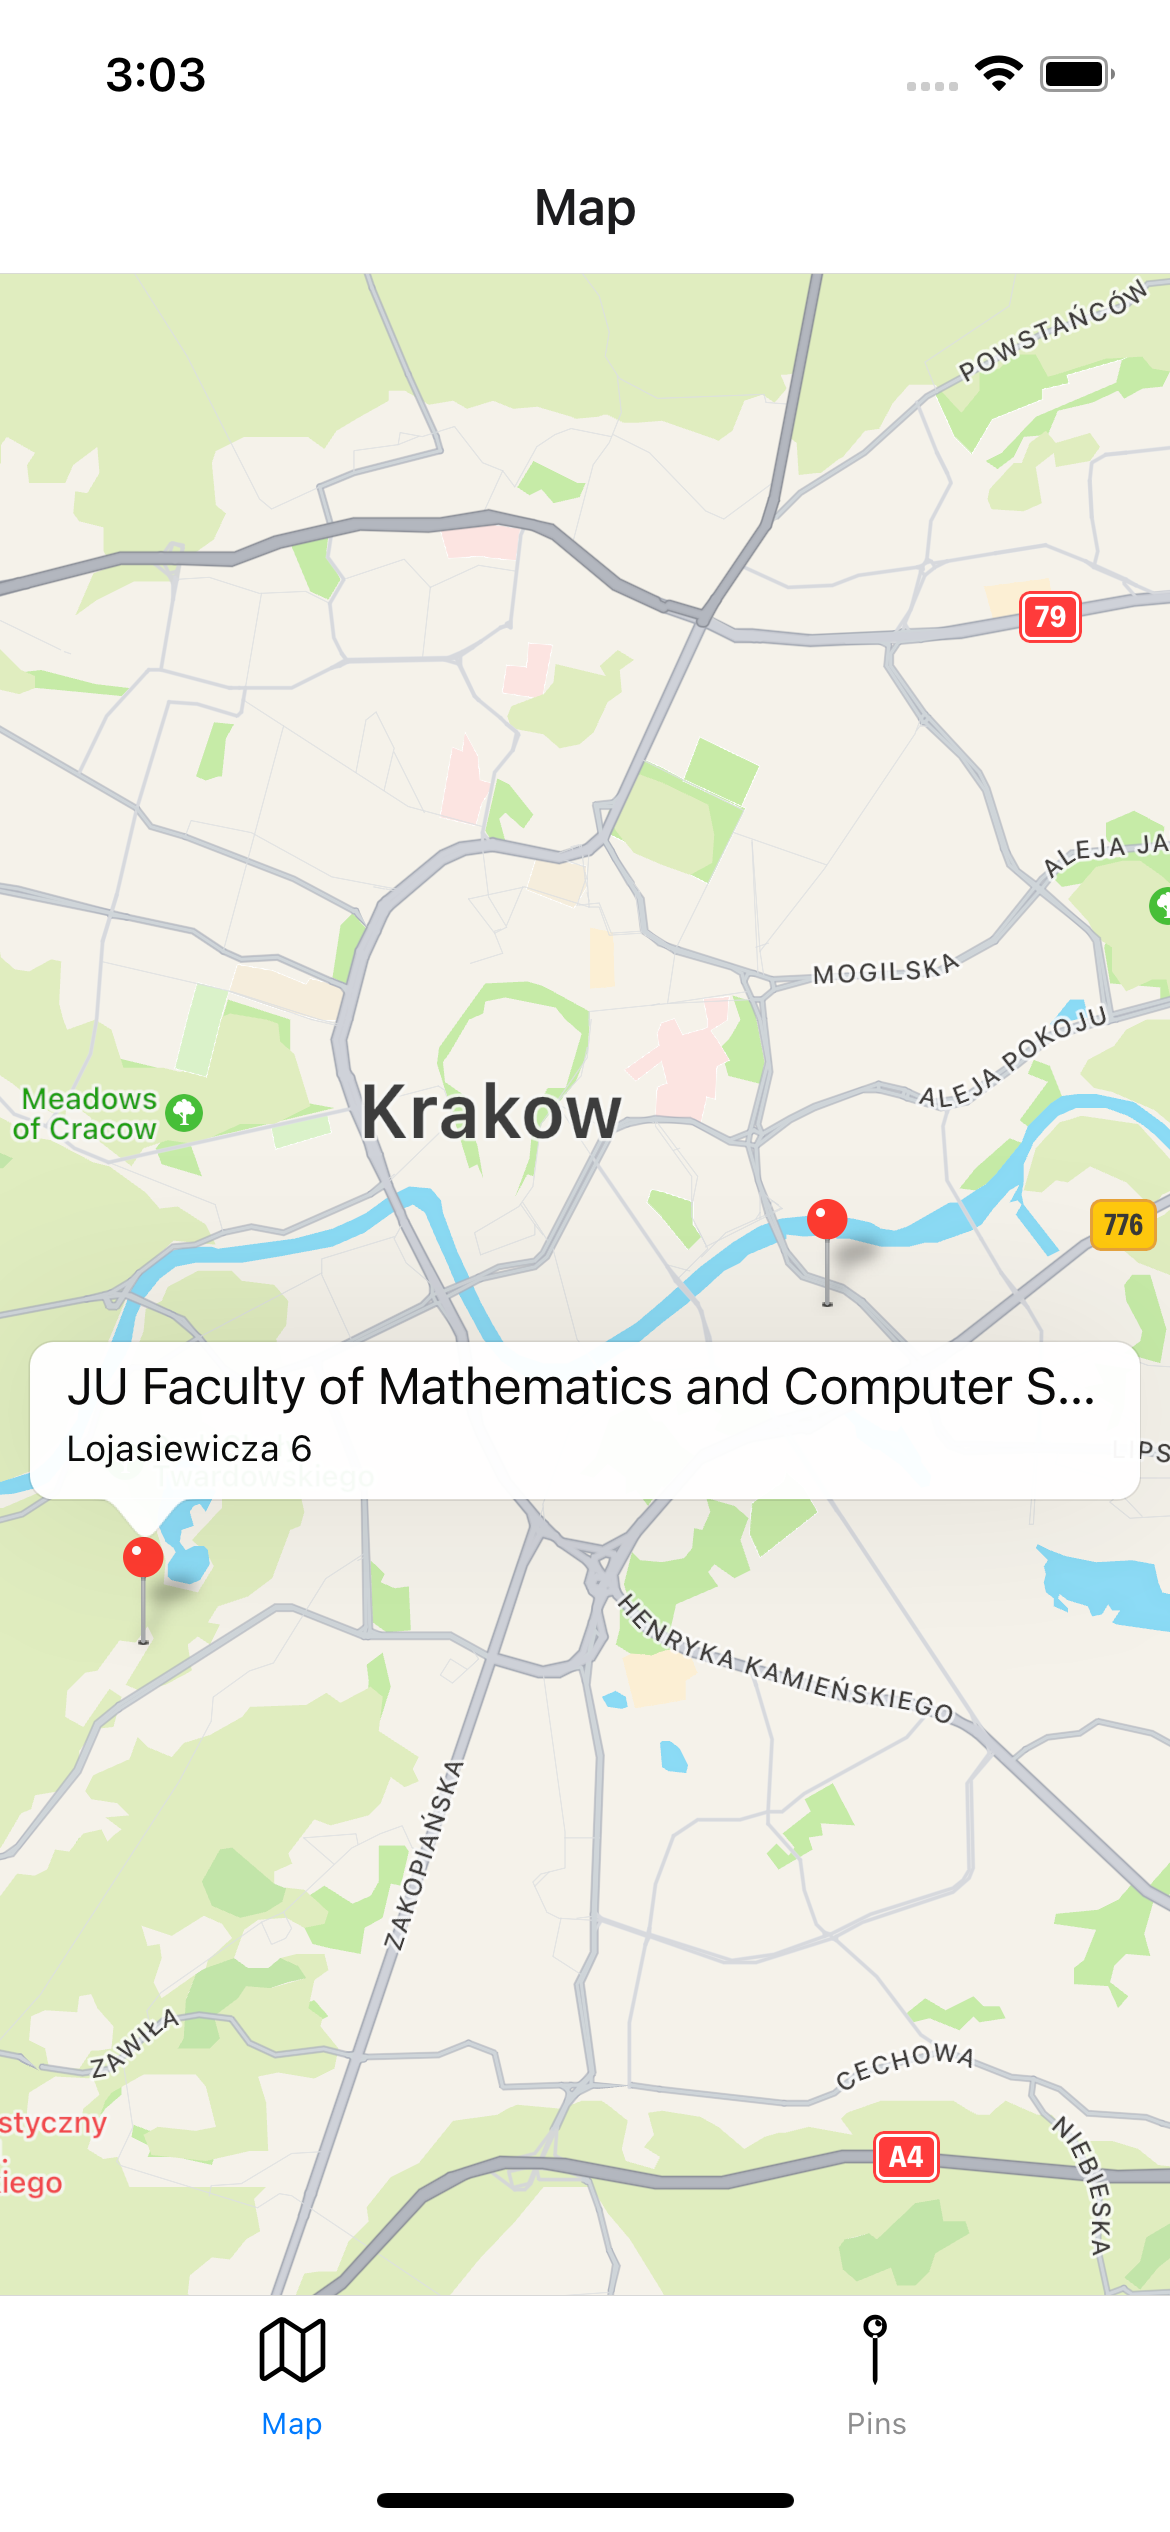
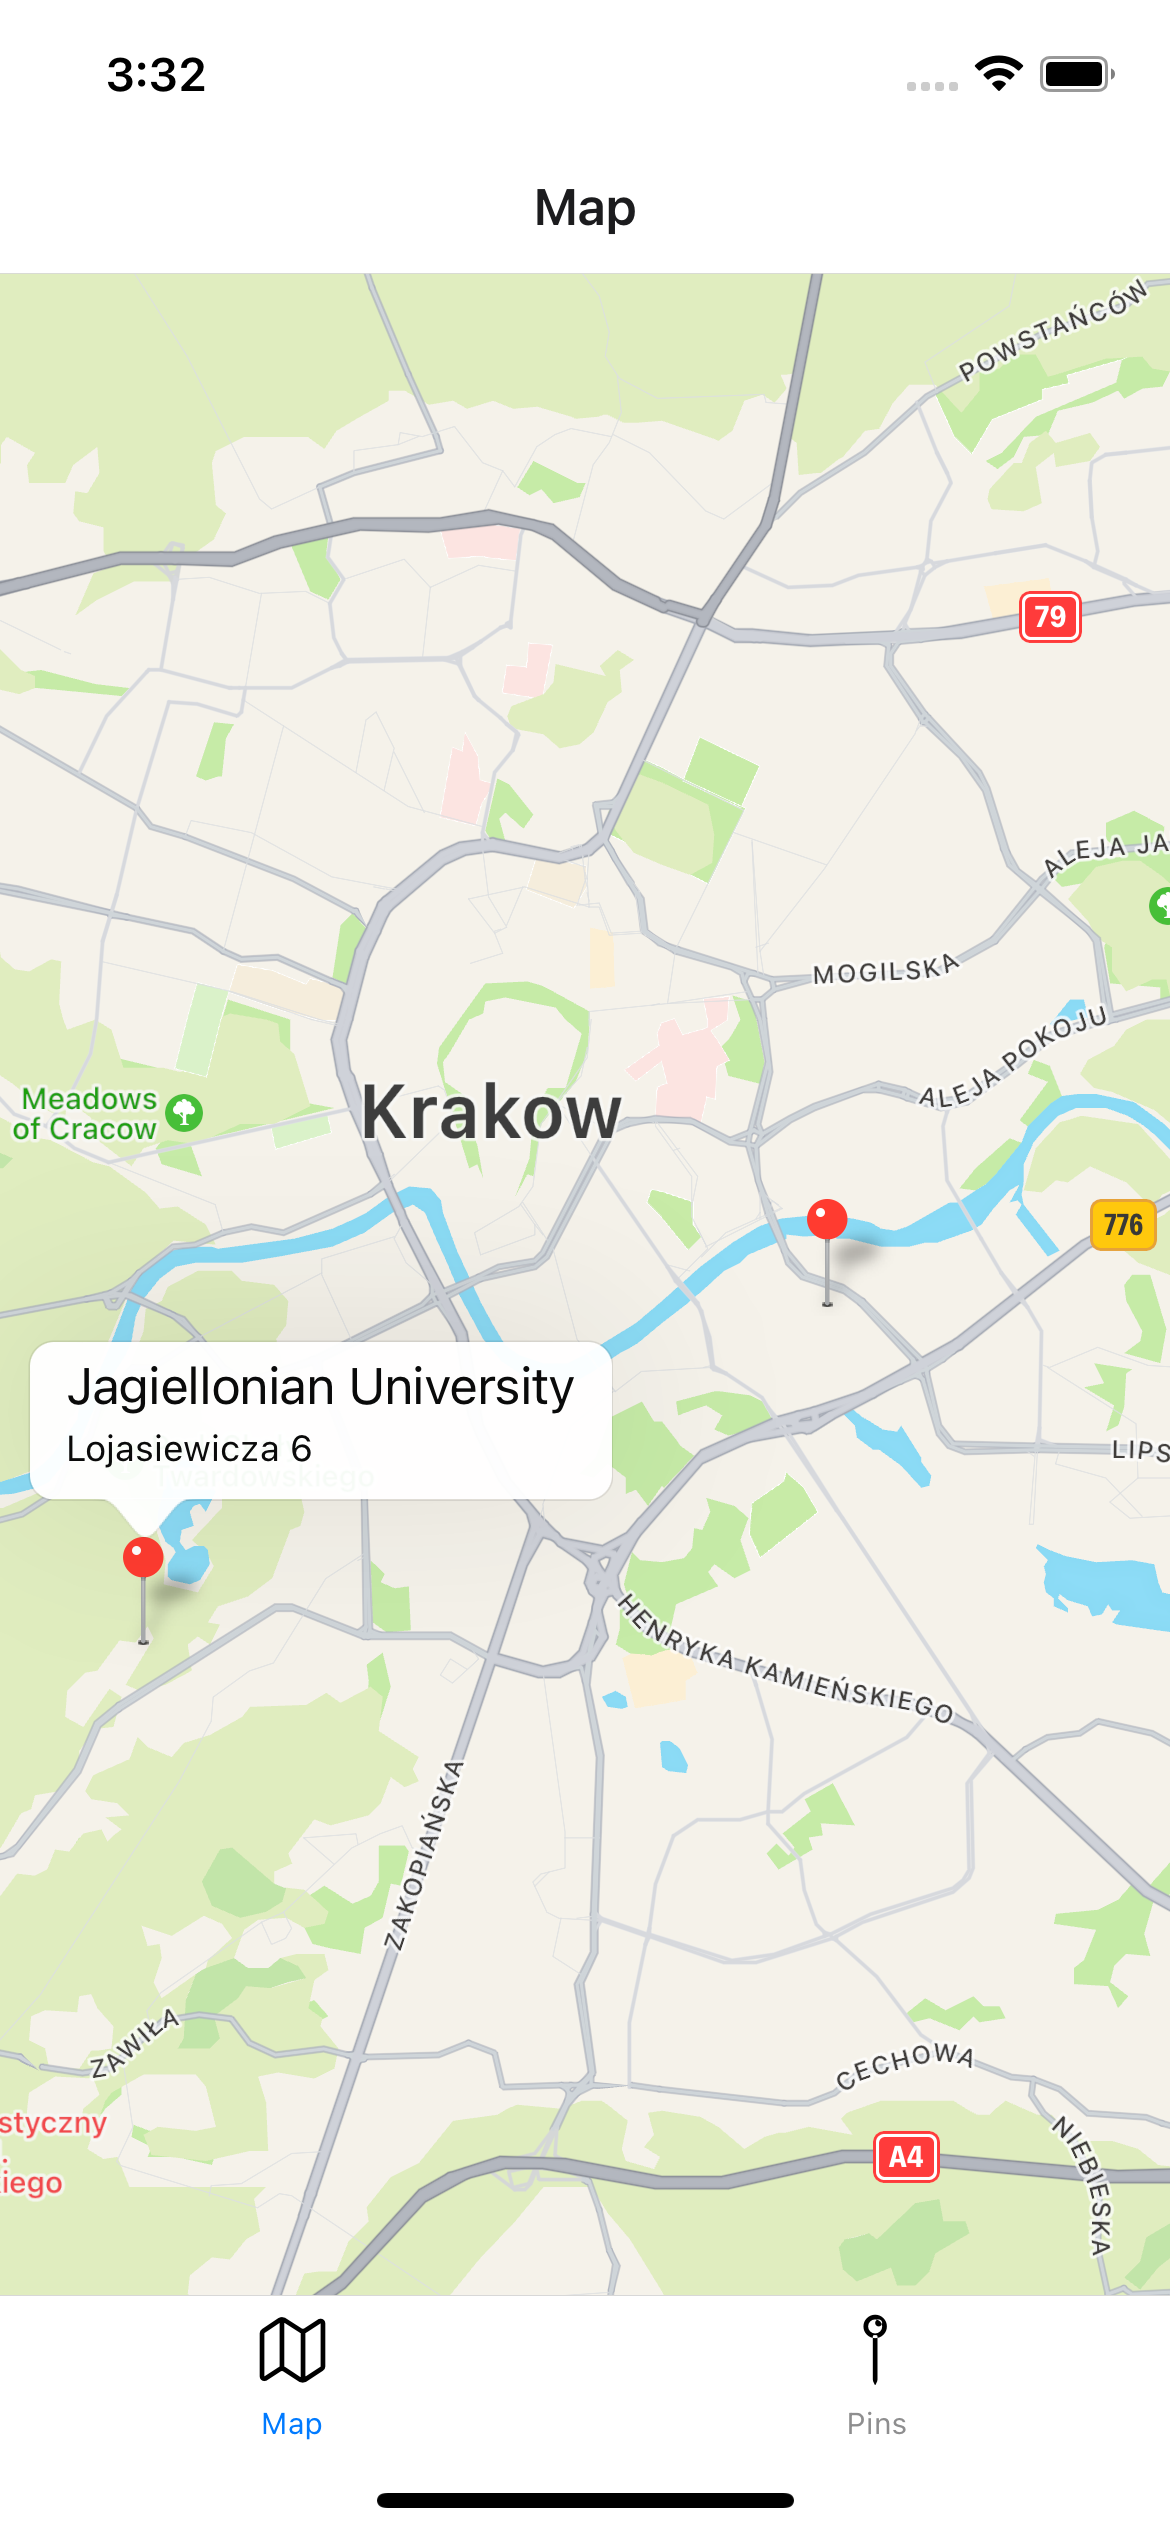
improvements

Changed region(s): [[0.0923, 0.5304, 0.9846, 0.5928]]

diff --git a/App.js b/App.js
@@ -1,6 +1,5 @@
 import React from 'react';
 import PinsNavigator from './navigation/PinsNavigator';
-import { useState } from 'react/cjs/react.development';
 import { createStore, combineReducers } from 'redux';
 import pinsReducer from './store/reducers/pins';
 import { Provider } from 'react-redux';
@@ -12,13 +11,9 @@ const rootReducer = combineReducers({
 const store = createStore(rootReducer);
 
 export default function App() {
-  const [selectedPins, setSelectedPins] = useState([]);
   return (
     <Provider store={store}>
-      <PinsNavigator
-        selectedPins={selectedPins}
-        setSelectedPins={setSelectedPins}
-      />
+      <PinsNavigator />
     </Provider>
   );
 }

diff --git a/screens/PinsScreen.js b/screens/PinsScreen.js
@@ -4,12 +4,12 @@ import { POSSIBLE_PINS } from '../data/possiblePins';
 import { useDispatch, useSelector } from 'react-redux';
 import { togglePin } from '../store/actions/pins';
 
-export default function PinsScreen({ route }) {
+export default function PinsScreen() {
   const selectedPins = useSelector((state) => state.pins.selectedPins);
   const dispatch = useDispatch();
 
   const renderPinSelectors = () => {
-    return POSSIBLE_PINS.map((pin, ind) => {
+    return POSSIBLE_PINS.map((pin) => {
       return (
         <View key={pin.title} style={styles.pin}>
           <Text>{pin.title}</Text>

diff --git a/screens/MapScreen.js b/screens/MapScreen.js
@@ -5,7 +5,7 @@ import { useState } from 'react/cjs/react.development';
 import { useSelector } from 'react-redux';
 import { POSSIBLE_PINS } from '../data/possiblePins';
 
-export default function MapScreen({ navigation }) {
+export default function MapScreen() {
   const selectedPins = useSelector((state) => state.pins.selectedPins);
 
   const [region, setRegion] = useState({

diff --git a/data/possiblePins.js b/data/possiblePins.js
@@ -8,7 +8,7 @@ export const POSSIBLE_PINS = [
     },
   },
   {
-    title: 'JU Faculty of Mathematics and Computer Science',
+    title: 'Jagiellonian University',
     description: 'Lojasiewicza 6',
     coordinate: {
       latitude: 50.03008229533105,

diff --git a/README.md b/README.md
@@ -1,5 +1,5 @@
 <h1>pins</h1>
-Simple React Native map app which allows user to pin some interesting Krakow locations
+Simple React Native map app built using Expo which allows user to pin some interesting Krakow locations
 
 <h2>How does it work?</h2>
 <h3>1. Select which locations you want to pin</h3>
